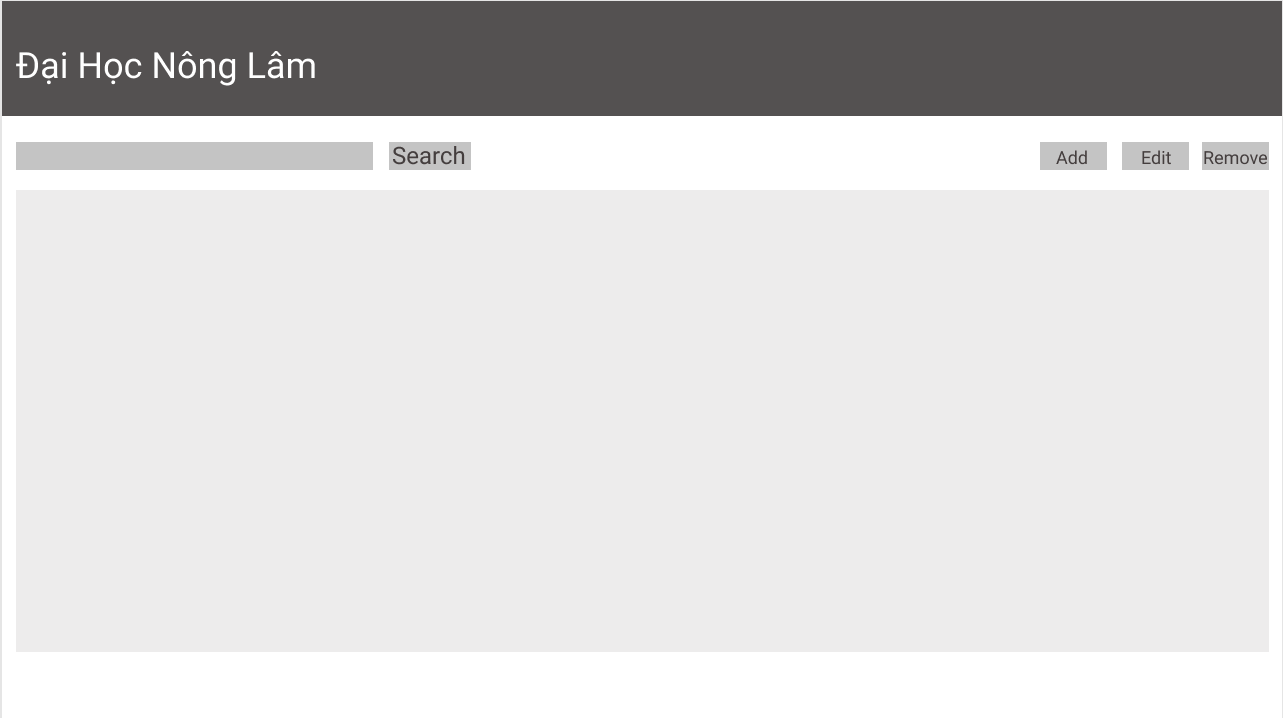
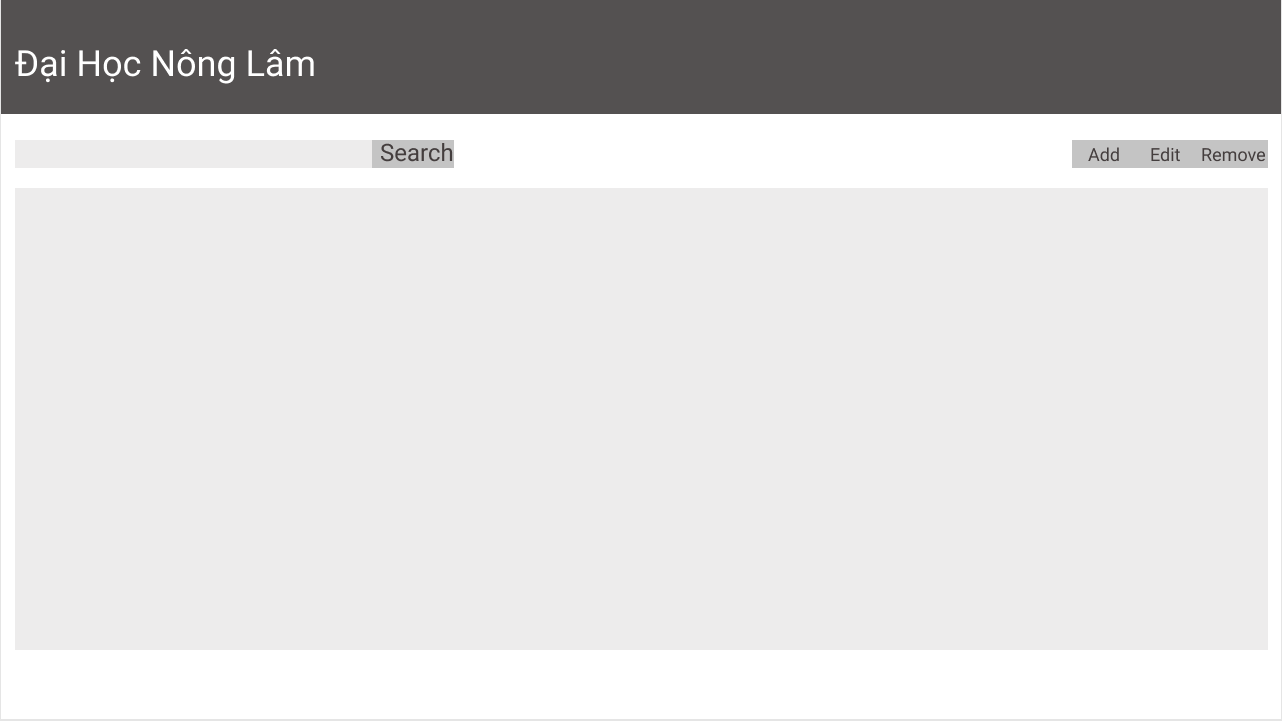
update

Changed region(s): [[0.0, 0.1532, 0.9984, 0.2451], [0.0, 0.9805, 0.9984, 1.0], [0.0, 0.0613, 0.2496, 0.1226]]

diff --git a/allLabs/lab 1.html b/allLabs/lab 1.html
@@ -35,7 +35,7 @@
                             <li class="nav-link"><a class="nav-link" data-toggle="tab" href="#user-scenario">User Scenario</a></li>
                             <li class="nav-link"><a class="nav-link" data-toggle="tab" href="#design">Design</a></li>
                             <li class="nav-link"><a class="nav-link" data-toggle="tab" href="#implement">Implement</a></li>   
-                            <button type="button" class="btn btn-link"><a class="download-all" href="">Download all lab 1 as zip</a></button>       
+                            <button type="button" class="btn btn-link"><a class="download-all" href="https://drive.google.com/file/d/1bEklK5W85mjhRXw1au1xcJ4TxXH2x_e0/view?usp=sharing">Download all lab 1 as zip</a></button>       
                         </ul>  
                          
                  
@@ -77,17 +77,20 @@
                             <div id="design" class="container tab-pane fade"><br>
                               <h3>Design</h3>
                               <div class="image-container">
-                                <img src="../images/lab 1 sketch.jpg" class="img-thumbnail" alt="Lab 1 Sketch">
+                                <img src="../images/lab1 sketch.jpg" class="img-thumbnail" alt="Lab 1 Sketch">
                                 <img src="../images/lab1.png" class="img-thumbnail" alt="Lab 1 Image">
                                 
                                 
                               </div>
-                              <button type="button" class="btn btn-primary"><a class="download-fig" href="https://drive.google.com/file/d/1TUrDjVhuxUBiY_rAtXARhOMtNxTApEv5/view?usp=sharing">Download</a></button>
+                              <button type="button" class="btn btn-primary"><a class="download-fig" href="https://drive.google.com/file/d/1YFndPoQYhE3raLSlz8eKubyj52BMvQYI/view?usp=sharing">Download</a></button>
                                                        
                             </div>
                             <div id="implement" class="container tab-pane fade"><br>
-                              <h3>Menu 2</h3>
-                              <p>Sed ut perspiciatis unde omnis iste natus error sit voluptatem accusantium doloremque laudantium, totam rem aperiam.</p>
+                              <h3>Implement</h3>
+                              <div class="embed-responsive embed-responsive-16by9">
+                                  <iframe class="embed-responsive-item" src="lab 1 implement.html" allowfullscreen></iframe>
+                                </div>
+                              
                             </div>
                         </div>  
                 </div>                     

diff --git a/allLabs/lab 1 implement.html b/allLabs/lab 1 implement.html
@@ -1,0 +1,38 @@
+<!DOCTYPE html>
+<html lang="en">
+<head>
+    <meta charset="UTF-8">
+    <meta name="viewport" content="width=device-width, initial-scale=1.0">
+    <meta http-equiv="X-UA-Compatible" content="ie=edge">
+    <title>Document</title>
+    <link rel="stylesheet" href="https://stackpath.bootstrapcdn.com/bootstrap/4.3.1/css/bootstrap.min.css" integrity="sha384-ggOyR0iXCbMQv3Xipma34MD+dH/1fQ784/j6cY/iJTQUOhcWr7x9JvoRxT2MZw1T" crossorigin="anonymous">
+
+    <link rel="stylesheet" href="lab1 style.css">
+</head>
+<body>
+        <header>
+              
+            <h1 class="header-title"><strong>Dai hoc Nong Lam</strong></h1>
+        </header>
+
+<div class="btn-toolbar justify-content-between" role="toolbar" aria-label="Toolbar with button groups">
+        <div class="input-group">
+        <div class="input-group-prepend">
+          
+        <input type="text" class="form-control" placeholder="Type in here" aria-label="type in here" aria-describedby="btnGroupAddon2">
+        <div class="input-group-text" id="btnGroupAddon2">Search</div>
+        </div>
+      </div>
+    <div class="btn-group" role="group" aria-label="First group">
+      <button type="button" class="btn btn-secondary">Add</button>
+      <button type="button" class="btn btn-secondary">Edit</button>
+      <button type="button" class="btn btn-secondary">Remove</button>
+    </div>
+    
+  </div>
+  <div class="body">
+  </div>
+
+    
+</body>
+</html>

diff --git a/allLabs/lab1 style.css b/allLabs/lab1 style.css
@@ -1,0 +1,46 @@
+
+body{
+    margin: 0;
+    padding: 0;
+    background: white;
+    font-family: Arial, Helvetica, sans-serif;
+    
+}
+.header-title{
+    color: rgb(255, 255, 255);
+    margin-left: 0.5%;
+    padding: 0;
+    margin-top: 10vh;
+    height: 50%;
+    font-size: 2vw;
+}
+header{
+    background: #545151;
+    height: 18vh;
+    display: flex;
+    
+}
+.input-group{
+    margin: 2%;
+}
+.btn-group{
+    margin: 2%;
+    
+}
+.body{
+    display: block;
+    background: #EDECEC;
+    height: 72vh;
+    margin: 2%;
+    margin-top: 0;
+}.form-control{
+    background: #EDECEC;
+
+}
+.input-group-text{
+    background: #C4C4C4;
+}
+.btn.btn-secondary{
+    color: #443E3E;
+    background: #C4C4C4;
+}

diff --git a/style.css b/style.css
@@ -110,7 +110,7 @@ text-decoration: underline;
 }
 .labs-body{
     background: rgb(255, 255, 255);
-    height: 82vh;
+    height: 91vh;
     width: 100%;
     display: flex;
 }
@@ -156,4 +156,7 @@ text-decoration: underline;
 .download-fig:hover{
     text-decoration: none;
     color: white;
+}
+.embed-responsive-item{
+    max-height: 85%;
 }
